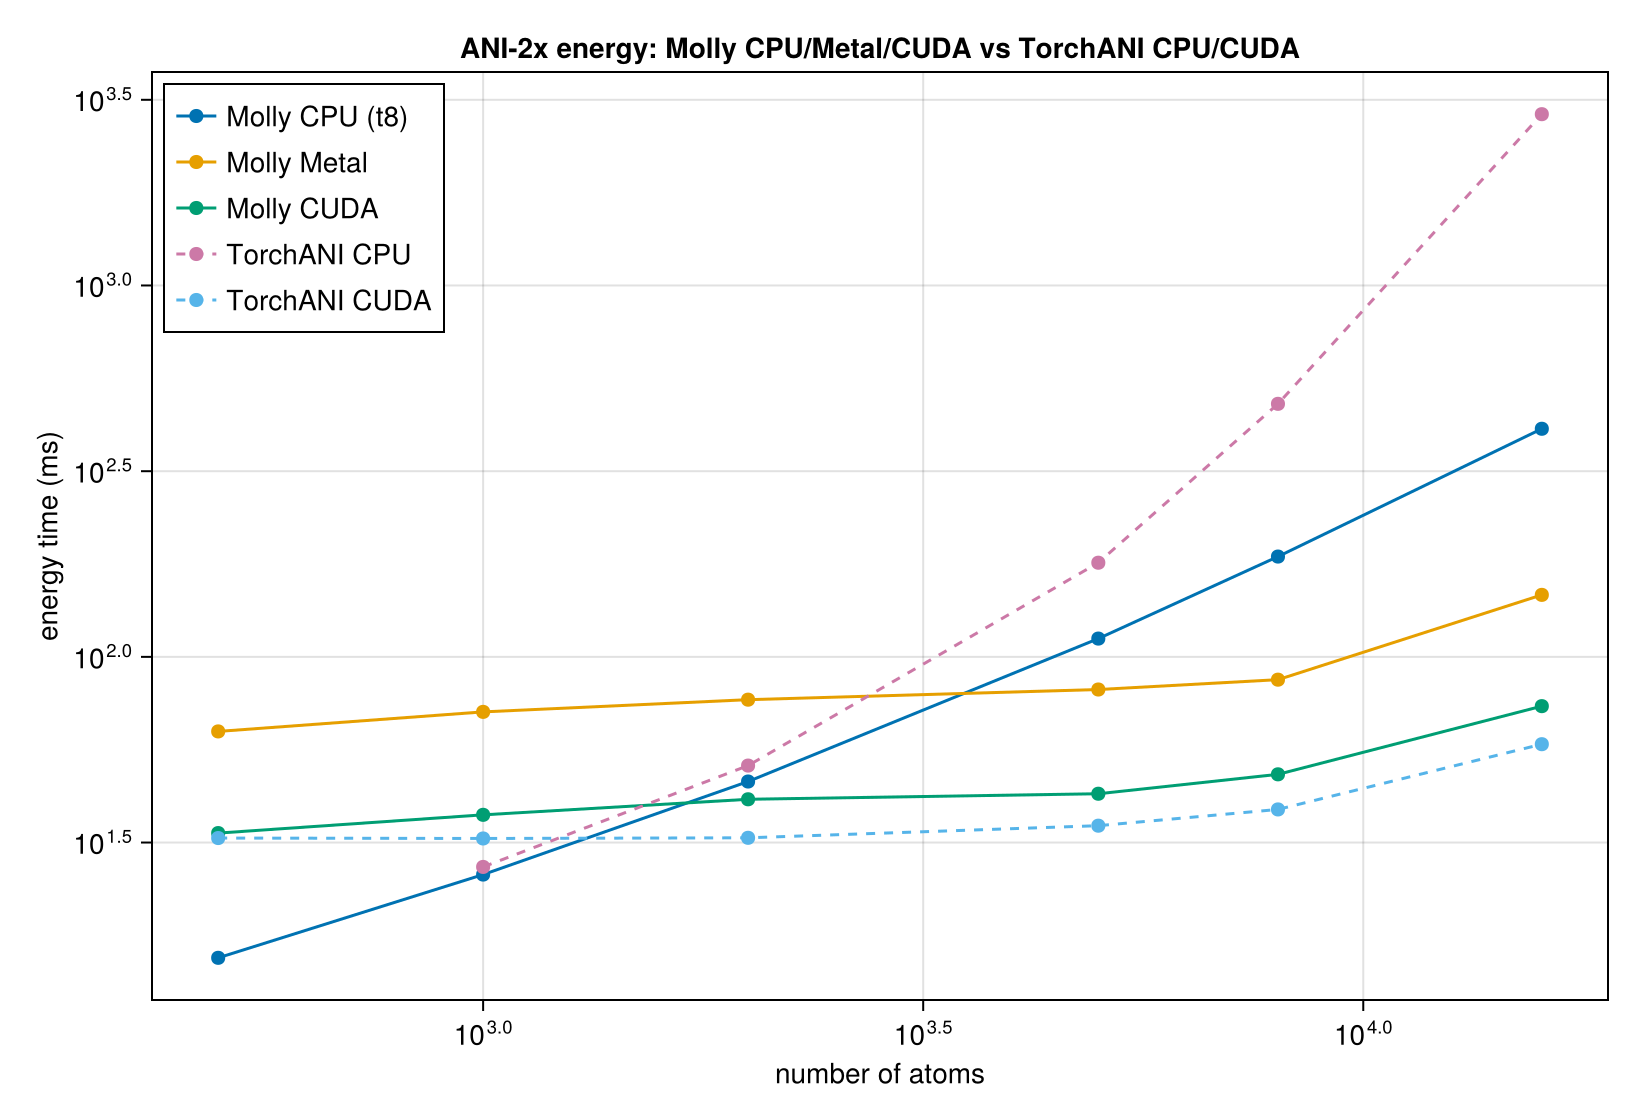
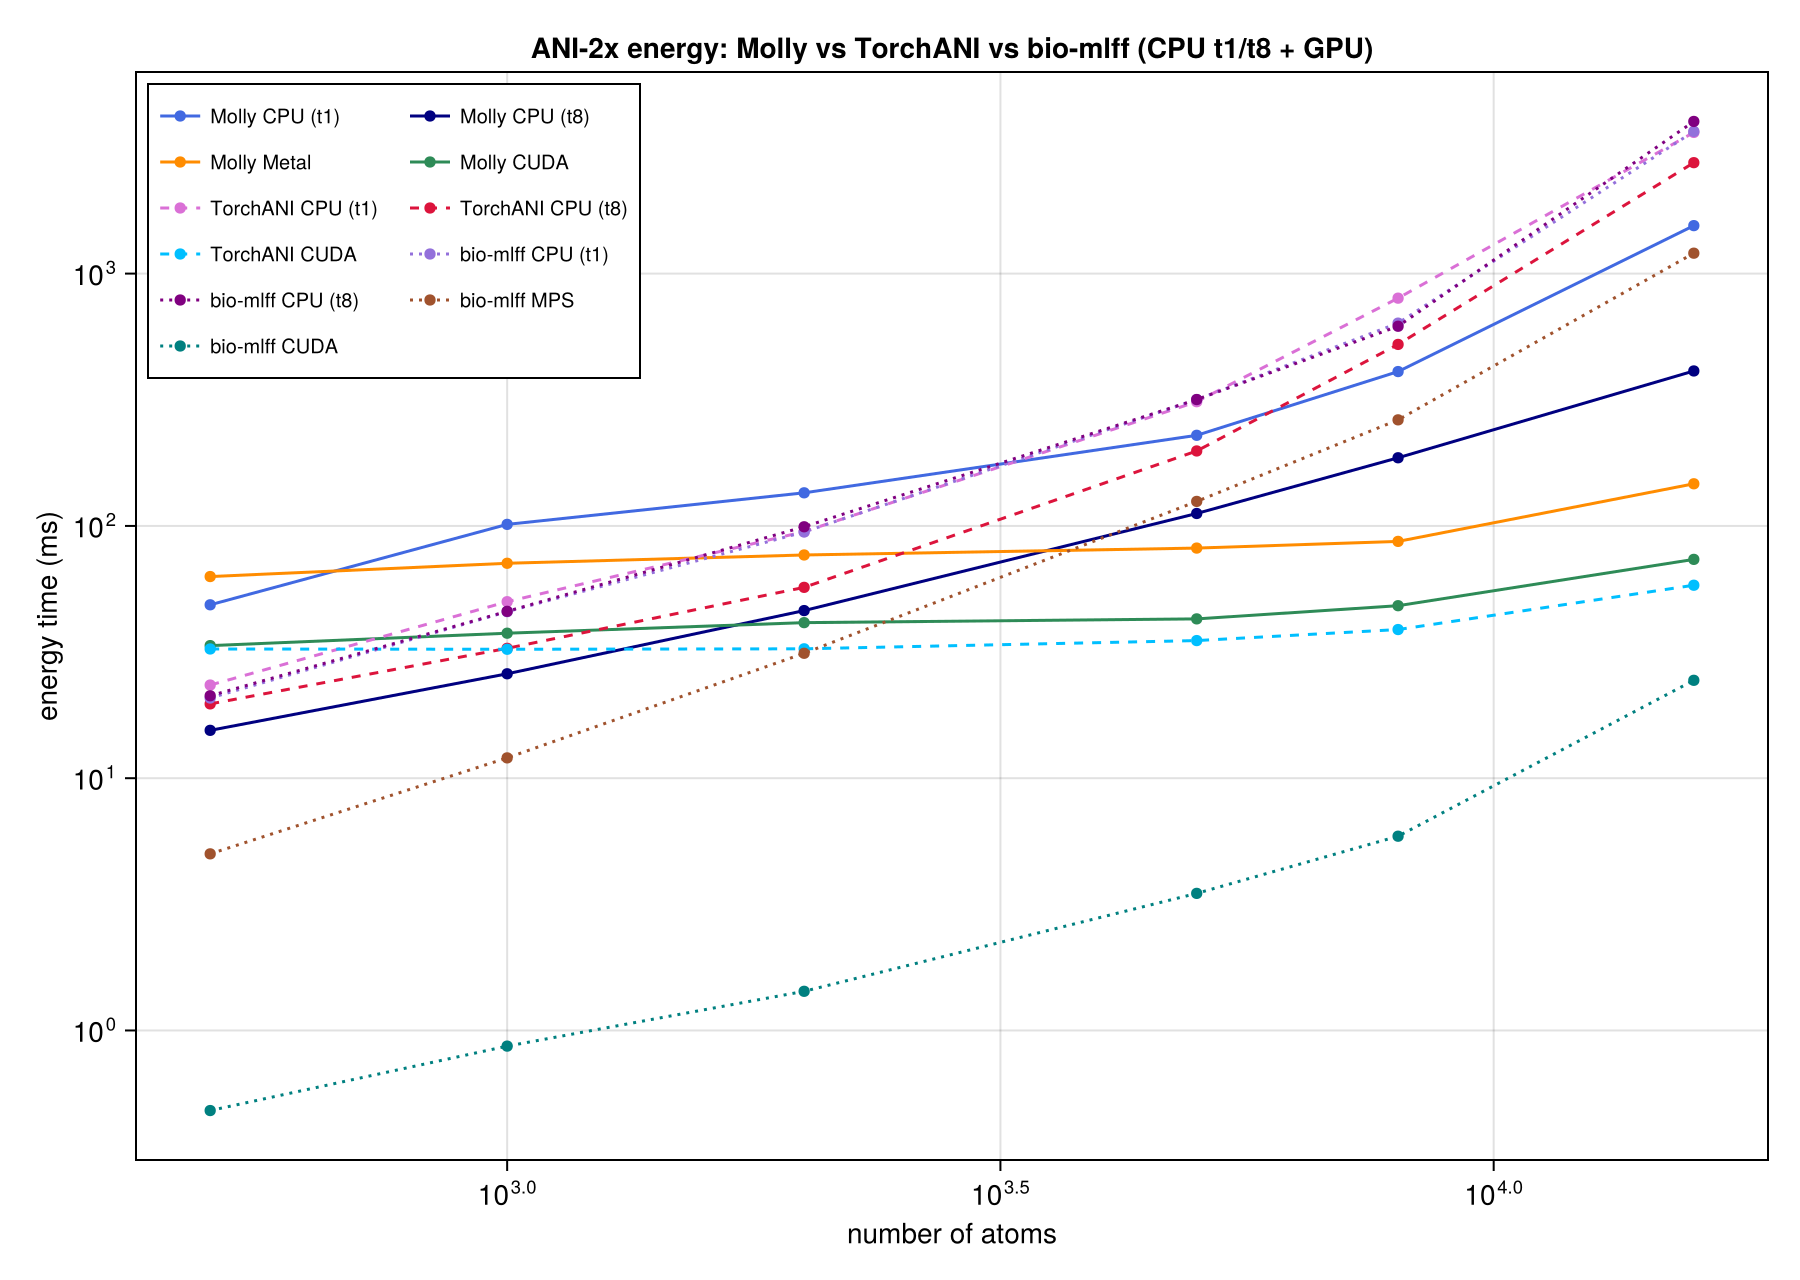
ANI: full cross-implementation comparison — Molly/TorchANI/bio-mlff, CPU t1/t8 + Metal/MPS/CUDA (PR #260)
The energy/forces vs-N charts now overlay all eleven series: Molly (CPU t1/t8, Metal, CUDA),
TorchANI (CPU t1/t8, CUDA), bio-mlff (CPU t1/t8, MPS via jax-mps, CUDA). Framework encoded by
linestyle (Molly solid, TorchANI dashed, bio-mlff dotted); thread count in the label.

- Re-measured all CPU configs serially (no cross-job contention) at the 6 CUDA sizes on Apple M3;
  Molly t1 now matches the earlier clean run (energy 1550, forces 5049 ms at 16k).
- Added bio-mlff MPS (jax-mps) and bio-mlff CUDA (jax[cuda12], runs on Blackwell sm_120).
- ani_benchmarks.md: new cross-implementation section with energy+forces tables at 1k/8k/16k and
  the threading analysis (Molly ~3.5-3.8x t1->t8; TorchANI ~1.3x; bio-mlff thread-insensitive).
- Reference timing JSONs (bio-mlff) gitignored like the TorchANI ones.

CPU/Metal/MPS = Apple M3; CUDA = RTX 5080.

diff --git a/benchmark/ani_benchmarks.md b/benchmark/ani_benchmarks.md
@@ -98,7 +98,7 @@ the **~4000-atom crossover** Metal's near-flat cost wins, reaching **3.3×** the
 energy, 146 ms — the forward-AEV + backward-AEV + NN-VJP overhead). Both Molly paths beat
 TorchANI CPU forces at scale (see the head-to-head): at 16k, CPU-analytic is 3.0× and Metal 9.7×.
 
-![Forces vs N — all backends: Molly CPU/Metal/CUDA + TorchANI CPU/CUDA](images/forces_vs_N.png)
+![Forces vs N — all implementations: Molly/TorchANI/bio-mlff, CPU t1/t8 + Metal/MPS/CUDA](images/forces_vs_N.png)
 
 **Full ensemble.** The 8-member ensemble forces on Metal cost **~1.7×** a single member (256 vs
 151 ms at 1000 atoms; 273 vs 155 at 2000): the AEV forward/backward runs once and only the NN VJP
@@ -149,7 +149,7 @@ threaded CPU wins. Above the ~4000-atom crossover Metal pulls ahead as the CPU g
 the full 6mrr system (15,954 atoms) Metal is **2.8× the CPU** (146 vs 404 ms). (Forces, in
 contrast, run on-GPU and cross over similarly — see above.)
 
-![Energy vs N — all backends: Molly CPU/Metal/CUDA + TorchANI CPU/CUDA](images/energy_vs_N.png)
+![Energy vs N — all implementations: Molly/TorchANI/bio-mlff, CPU t1/t8 + Metal/MPS/CUDA](images/energy_vs_N.png)
 
 ---
 
@@ -205,6 +205,41 @@ CUDA's is the cyclops host — each line is GPU-vs-its-own-host, so compare the 
 
 ![Energy speedup — Metal + CUDA](images/energy_speedup.png)
 ![Forces speedup — Metal + CUDA](images/forces_speedup.png)
+
+---
+
+## Cross-implementation comparison (Molly vs TorchANI vs bio-mlff)
+
+All three native ANI-2x implementations, at matched CPU thread counts (t1 and t8) plus each GPU
+backend, on 6mrr slices (min-of-N). **CPU / Metal / MPS = Apple M3; CUDA = RTX 5080** (cross-machine
+on the GPU columns, so compare scaling shape, not absolute cross-device level). bio-mlff is Mit
+Kotak's JAX implementation (CPU/MPS via `jax-mps`, CUDA via `jax[cuda12]`); timings exclude
+neighbour-list construction for every implementation.
+
+Energy (ms):
+
+| N atoms | Molly t1 | Molly t8 | Molly Metal | Molly CUDA | TorchANI t1 | TorchANI t8 | TorchANI CUDA | bio-mlff t1 | bio-mlff t8 | bio-mlff MPS | bio-mlff CUDA |
+|---------|----------|----------|-------------|------------|-------------|-------------|---------------|-------------|-------------|--------------|---------------|
+| 1000    | 101.4 | 25.9  | 71.1  | 37.6 | 50.1  | 32.7  | 32.4 | 45.7  | 45.9  | 12.0  | 0.9  |
+| 8000    | 409.1 | 186.3 | 86.8  | 48.3 | 799.4 | 524.1 | 38.8 | 636.5 | 618.6 | 263.3 | 5.9  |
+| 15,954  | 1550  | 411.4 | 146.9 | 73.7 | 3629  | 2753  | 58.2 | 3663  | 4011  | 1205  | 24.4 |
+
+Forces (ms):
+
+| N atoms | Molly t1 | Molly t8 | Molly Metal | Molly CUDA | TorchANI t1 | TorchANI t8 | TorchANI CUDA | bio-mlff t1 | bio-mlff t8 | bio-mlff MPS | bio-mlff CUDA |
+|---------|----------|----------|-------------|------------|-------------|-------------|---------------|-------------|-------------|--------------|---------------|
+| 1000    | 389.5 | 137.9 | 179.9 | 67.0  | 97.4   | 62.8  | 62.5 | 84.4  | 89.5  | 29.2   | 2.4  |
+| 8000    | 1452  | 662.1 | 215.9 | 130.1 | 1017   | 665.8 | 72.6 | 1315  | 1756  | 419.3  | 15.4 |
+| 15,954  | 5049  | 1308  | 365.4 | 230.5 | 5641   | 4424  | 98.9 | 8343  | 9709  | 1810   | 42.7 |
+
+**Threading** (the interesting part): Molly scales well with threads (energy ~3.5× t1→t8, forces
+~3.8× at 16k); TorchANI scales modestly (~1.3× energy, ~1.3× forces); bio-mlff (JAX/XLA on CPU) is
+essentially thread-insensitive (t1 ≈ t8 — XLA's CPU threadpool did not respond to
+`intra_op_parallelism_threads`). **At t8, Molly is the fastest CPU implementation at scale** on both
+energy (411 vs 2753 vs 4011 ms at 16k) and forces (1308 vs 4424 vs 9709). **On GPU**, bio-mlff's
+XLA-fused CUDA path is the fastest overall, with TorchANI CUDA and Molly CUDA next; Molly Metal and
+bio-mlff MPS give Apple-GPU coverage (Molly Metal is flattest — 147 ms energy / 365 ms forces at the
+full protein). See the energy/forces vs-N figures above for all eleven series.
 
 ---
 
